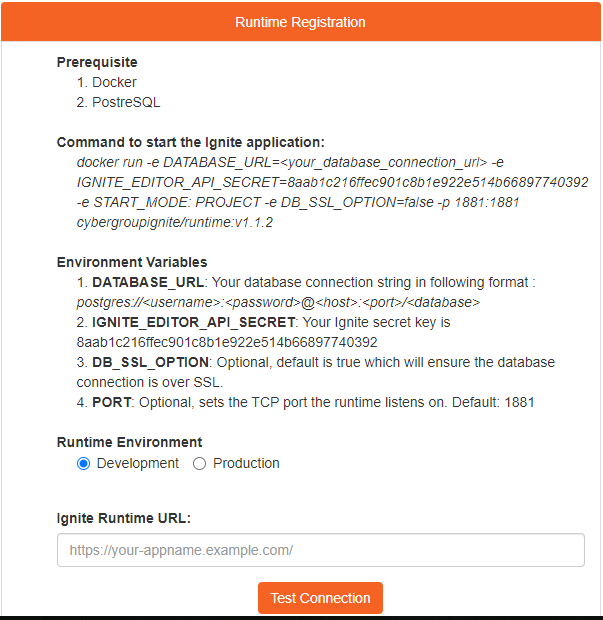
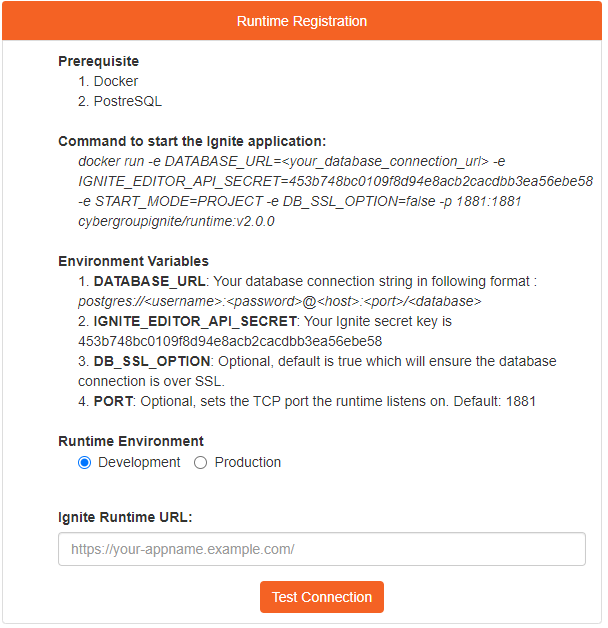
adding some more examples as image and modify docker-compose.yml template

Changed region(s): [[0.0, 0.0, 1.0, 1.0], [0.0896, 0.3984, 0.9254, 0.7661]]

diff --git a/docs/versionControl-CI-CD/VC-CI-CD-installation.md b/docs/versionControl-CI-CD/VC-CI-CD-installation.md
@@ -24,7 +24,13 @@ To install Ignite Project on your local system, you need the following:
     Ignite requires a latest version of Docker Desktop.
 For more information on installing Docker Desktop, see <a href="https://www.docker.com/products/" style="color:blue" taget="_blank">docker-desktop</a>. 
 
-    If you are unsure what version of Docker Desktop runs on your system, run docker -v in a terminal window.
+    If you are unsure what version of Docker Desktop runs on your system, run 
+    ```
+    docker -v
+    ```
+    in a terminal window.
+
+![](../assets/versionControl-CI-CD/DockerVersion.png)
 
 - **Postgres**
 
@@ -39,6 +45,8 @@ You develop apps in the context of an <a href="https://dashboard.cgignite.io/app
 To create a new, Ignite App: 
 1.	Navigate to <a href="https://dashboard.cgignite.io/apps" style="color:blue" taget="_blank">Ignite App</a> and create a new app and provide the name, such as my-app
 
+    ![](../assets/versionControl-CI-CD/NewAppButton.png)
+
     ![](../assets/versionControl-CI-CD/CreateNewApp.png)
 
 2.	The **Create App** action, will navigate to registration page which will provide information to start & register Ignite container.
@@ -49,27 +57,55 @@ To create a new, Ignite App:
 
 The Ignite Container includes a server, so that you can build and serve your app locally.
 
-1.	Open Terminal, Create new workspace folder, such as my-app.
-2.	Run the following command:
-    ```
-    cd my-app 
-    ```
-3.	Create a file **docker-compose.yml**. see, Appendix “Docker Compose” for reference.
+1.	Open explorer, Create new workspace folder, such as my-app.
+
+![](../assets/versionControl-CI-CD/CreateNewFolder.png)
+
+2.	Create a file **docker-compose.yml** inside the workspace directory, you just created above. 
+
+![](../assets/versionControl-CI-CD/CreateDockerComposeFile.png)
+
+See, Appendix **[“Docker Compose”](http://localhost:3000/docs/versionControl-CI-CD/VC-CI-CD-installation#appendix)** for reference.
 **cybergroupignite/runtime:v2.0.0** is our latest docker image, 
 following environment variable are required to start local development.
 
-    ```
-        IGNITE_EDITOR_API_SECRET: “<your editor key>” 
-        DATABASE_URL: “<your database url>”
-        DB_SSL_OPTION: “true” or "false” based on your Postgres Database installation 
-        START_MODE: "PROJECT" required for git based application development
-    ```
+```
+    IGNITE_EDITOR_API_SECRET: “<your editor key>” 
+    DATABASE_URL: “<your database url>”
+    START_MODE: "PROJECT" required for git based application development
+    DB_SSL_OPTION: “true” or "false” based on your Postgres Database installation 
+```
 
-4.	Run the following command:
+Provide **IGNITE_EDITOR_API_SECRET** from Runtime Registration Page. 
+
+![](../assets/versionControl-CI-CD/SecretKey_Code.png)
+
+**docker-compose.yml** file will look like as below-
+
+```
+version: "3.9"
+services:
+    web:
+        image: cybergroupignite/runtime:v2.0.0
+        ports:
+            - "1881:1881"
+        volumes: 
+            - ./data:/root/.node-red
+        environment:
+            IGNITE_EDITOR_API_SECRET: "453b748bc0109f8d94e8acb2cacdbb3ea56ebe58"
+            DATABASE_URL: "postgres://username:password@host:port/database"
+            START_MODE: "PROJECT"
+            DB_SSL_OPTION: "true"
+```
+
+
+
+4.	Open my-app in the terminal and run the following command:
 
     ```
     docker-compose up
     ```
+    ![](../assets/versionControl-CI-CD/Docker-compose-execution.png)
 
 The **docker-compose up** command launches the server, watch the logs, wait for container to start.
 
@@ -272,7 +308,7 @@ Checkout example repository to build image using git action & deploy on Heroku, 
 
 ```
 version: "3.9"
-  services:
+services:
     web:
       image: cybergroupignite/runtime:v2.0.0
       ports:
@@ -283,6 +319,7 @@ version: "3.9"
         IGNITE_EDITOR_API_SECRET: "<Your Ignite Secret key>"
         DATABASE_URL: "<Database URL>"
         START_MODE: "PROJECT"
+        DB_SSL_OPTION: "<true/false>"
 ```
 
 ### Dockerfile
